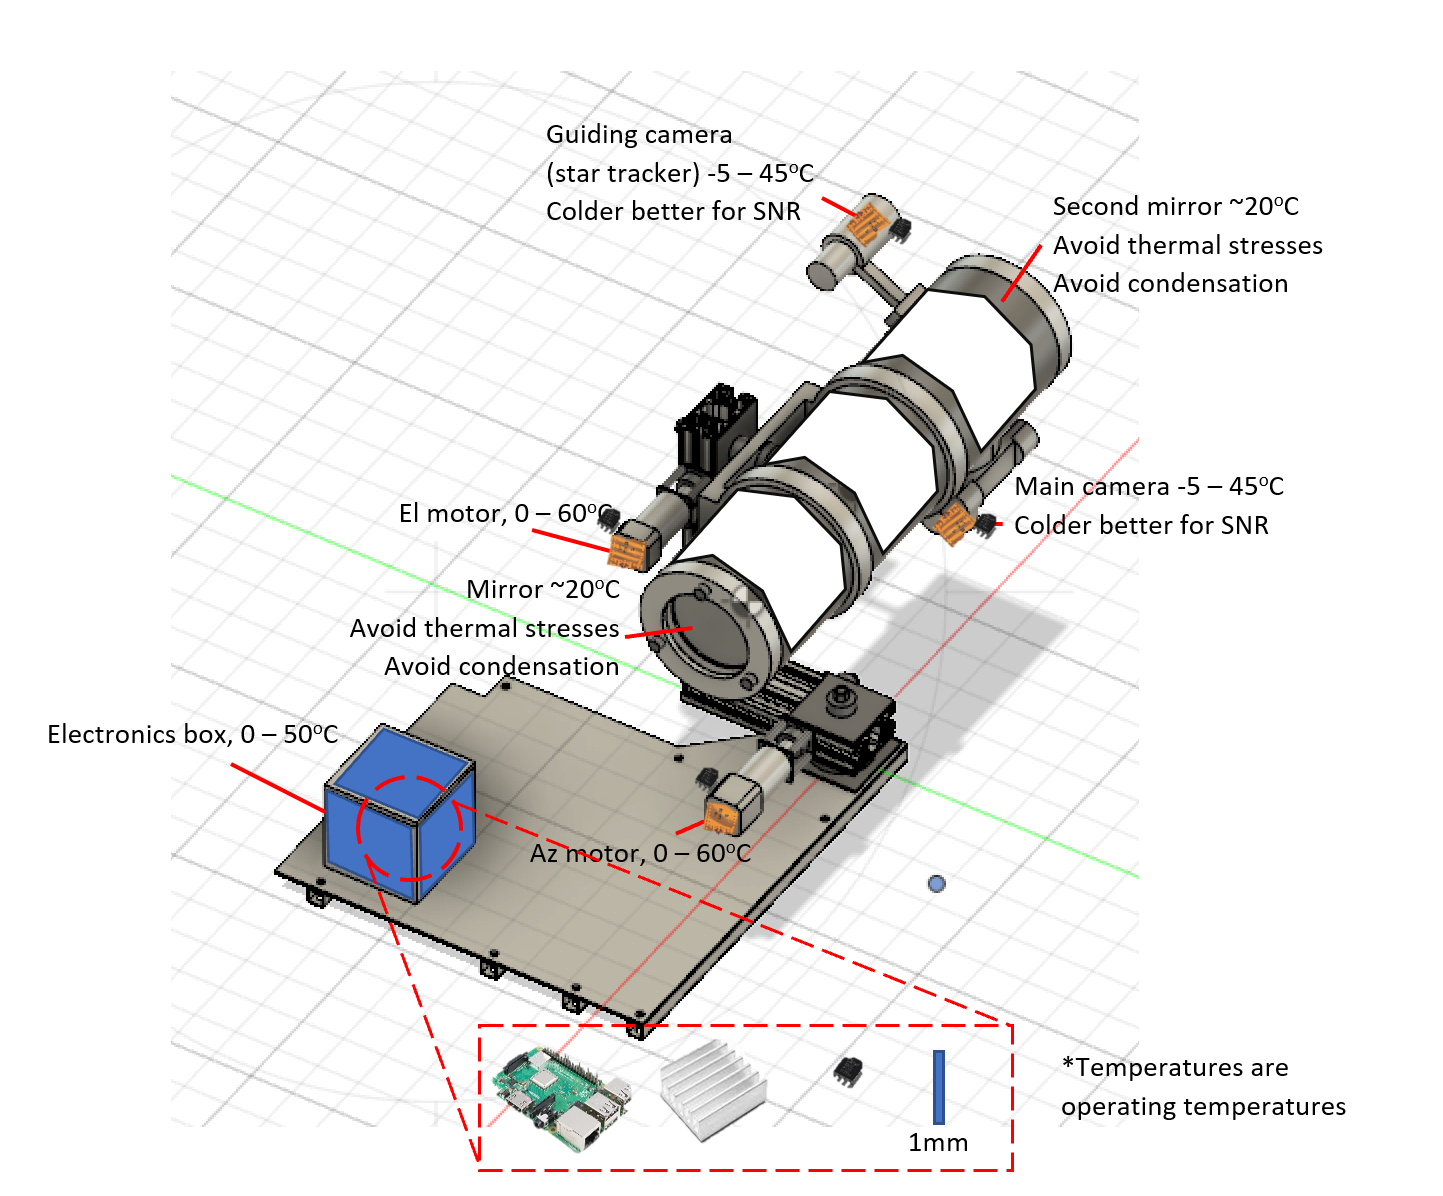
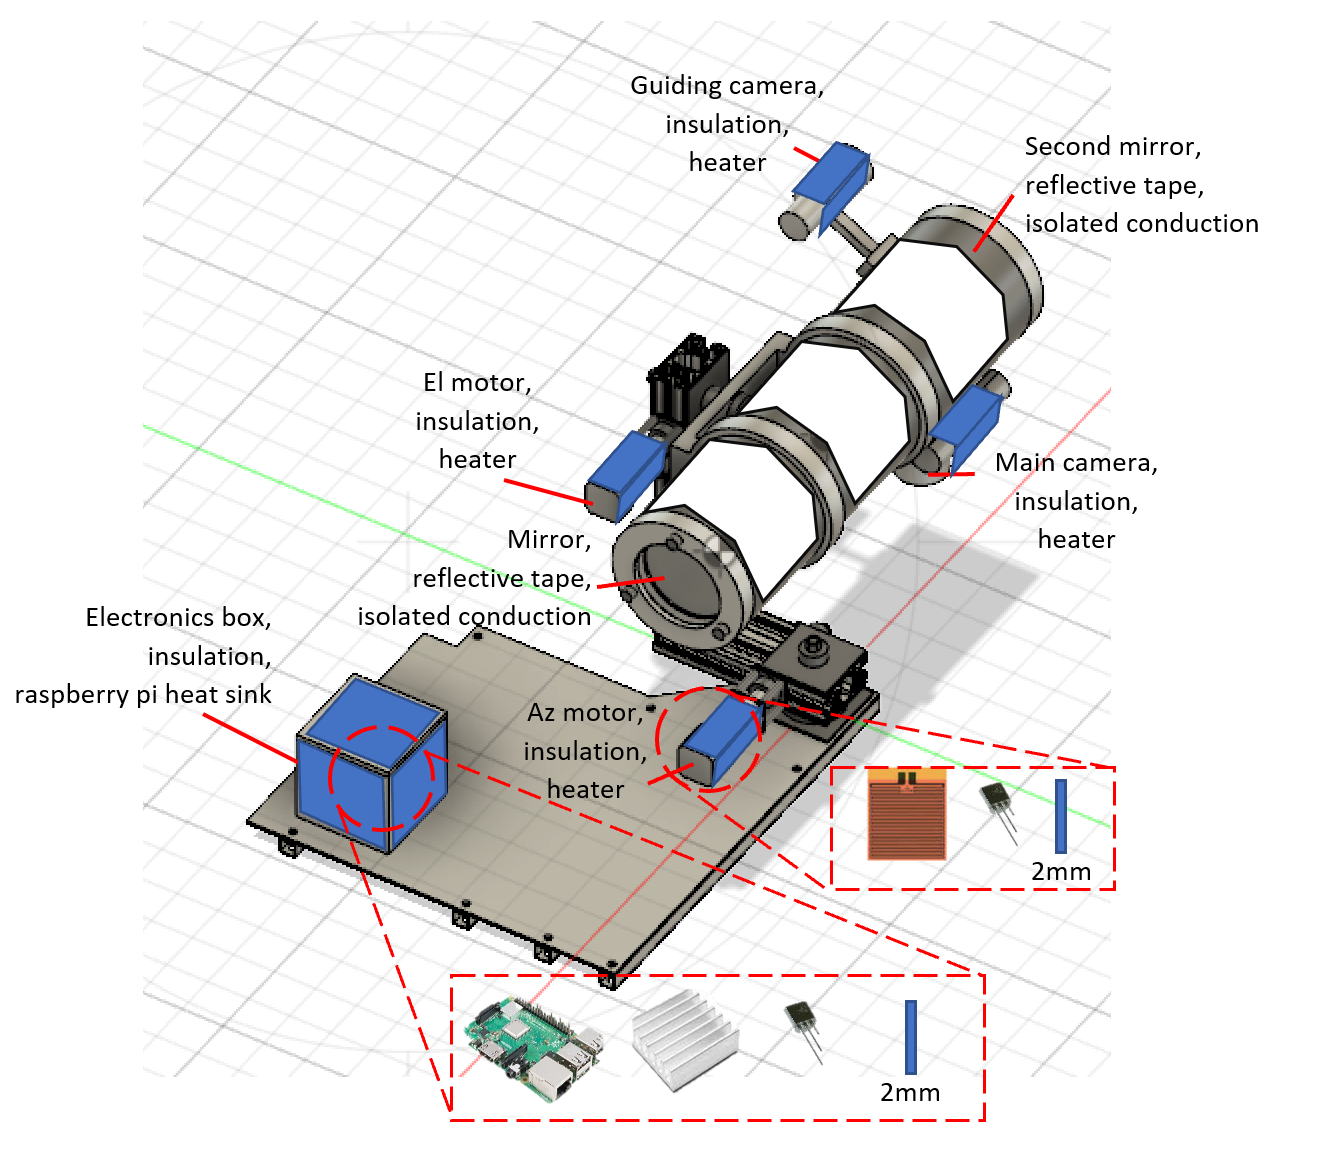
4.6 thermal updates sed2.1
CDR-17, other non action points from cdr feedback

diff --git a/4-experiment-design/4.6-thermal-design.tex b/4-experiment-design/4.6-thermal-design.tex
@@ -77,11 +77,6 @@ Another important effect will be the how thermal stresses and subsequent deflect
 \paragraph{Condensation}
 Condensation may occur if air heated by the camera heating elements is able to condensate on the cold surfaces of the optics. This will deteriorate the quality of the detections and must also be mitigated.  \
 
-\paragraph{Thermal deformation of mechanical parts}
-
-\hl{TODOTODOTODO}
-
-
 	\begin{figure}[h!]
     \centering
     \includegraphics[scale=0.8]{4-experiment-design/img/mechanical/thermalrequirements.PNG}
@@ -166,7 +161,7 @@ It is of note that in historical BEXUS projects utilising the Raspberry Pi in an
 
 
 
-\subsubsection{Thermal control}
+\subsubsection{Thermal analysis}
 
 \paragraph{Insulation}
 
@@ -316,21 +311,40 @@ The thermal environment was also simulated assuming no solar heating for each in
 	\label{fig:1mmthicknoheat}    
     	\end{figure}
 	
-In this case, 1mm insulation yields the best result, with the temperature at 38.2\textsuperscript{o}C with solar heating and -5\textsuperscript{o}C without, well within the required temperatures for the electronics. In any case, this analysis also makes assumptions about perfect conductive interfaces and perfect distributions of material properties, as well as a generic treatment of the thermal loads and geometry. Experimental testing will be required to ascertain more accurately the thermal conditions and to ensure that the thermal control that has been selected will work optimally and reliably. 
+In this case, 1mm insulation yields the best result, with the temperature at 38.2\textsuperscript{o}C with solar heating and -5\textsuperscript{o}C without, well within the required temperatures for the electronics. In any case, this analysis also makes assumptions about perfect conductive interfaces and perfect distributions of material properties, as well as a generic treatment of the thermal loads and geometry. Experimental testing will be required to ascertain more accurately the thermal conditions and to ensure that the thermal control that has been selected will work optimally and reliably. \\
+
+Avoid electrostatic discharging 
+
+\hl{TODOTODO}
+
+
 
 
 \paragraph{Raspberry Pi heat sink}
 
-It is also worth noting that in this analysis, the heat generated is distributed across the entire box, instead of centralised in a smaller volume, which in reality would be the case as the Raspberry Pi generates most of the heat. This would result in much higher temperatures for the Raspberry Pi, possibly exceeded ideal temperatures. Indeed, measurements taken from previous experiments have indicated temepratures at the Raspberry Pi exceeding 80\textsuperscript{o}C. \\
+It is also worth noting that in this analysis, the heat generated is distributed across the entire box, instead of centralised in a smaller volume, which in reality would be the case as the Raspberry Pi generates most of the heat. This would result in much higher temperatures for the Raspberry Pi, possibly exceeded ideal temperatures. Indeed, measurements taken from previous experiments have indicated temperatures at the Raspberry Pi exceeding 80\textsuperscript{o}C. \\
 
 A small heat sink should therefore be used to distribute the heat from the Raspberry Pi more evenly, to better resemble this case. 
 
 \paragraph{Insulation tape for telescope}
-\hl{TODOTODOTODO}
+\hl{TODOTODO}
 
 
-\paragraph{Heating pads}
-For the three motors and three cameras insulation will not be possible. For these components therefore Minco Polyimide Thermofoil heating pads will be used. These heating pads are able to increase the temperature of a target by up to 200\textsuperscript{o}C, more than enough to reach the required temperature range for the motors and cameras given the temperatures in the stratosphere.\\
+\paragraph{Motors and cameras}
+The motors and cameras are distinct from the electronics box in that the predicted power output is much lower, and so therefore the amount of heat able to be insulated is commensurately lower. A simple, first order estimate of the amount of insualtion needed for the motors has been conducted using a rudimentary FEA model.\\
+
+In this model, the motors are modelled as steel cylinders generating 0.91 W of heat, surrounded by extruded polystyrene, with outer surfaces losing heat by way of radiation and convection. The same thermal environment and material properties were used as in the analysis of the electronics box.\\
+
+	\begin{figure}[h!]
+    \centering
+    \includegraphics[scale=0.6]{4-experiment-design/img/mechanical/thermalmotors.PNG}
+	\caption{Results of thermal analysis of motor with insulation and no sun shining.}
+	\label{fig:thermalmotors}
+	\end{figure}
+
+It was found that in order to heat the motors to the required level, based on their heat output, a 40 mm thick layer of insulation would be needed. This seems like a large requirement, and will need to be verified with physical testing. If it is found that the amount of insulating material needs to be reduced, for spatial, mechanical, or other reasons then the heating demands can still be met by adding in heating elements to the insulated environment, which would in effect increase the total "internal heat generation" and minimise the insulation requirement.\\
+
+For these components Minco Polyimide Thermofoil heating pads can be used. These heating pads are able to increase the temperature of a target by up to 200\textsuperscript{o}C, more than enough to reach the required temperature range for the motors and cameras given the temperatures in the stratosphere.\\
 
 Assuming all the heat is transferred directly to the component, the power can be related to the time required to increase the target temperature by a certain amount.
 
@@ -366,41 +380,20 @@ The area of the heater is 3\,inch$^2$. Dividing the power by this area yields a 
 	\label{fig:thermalresistance1}
 	\end{figure}
 
-As this is low that burning of the heater is unlikely to occur, unless the temperature is not properly regulated and the heating pad warms well beyond the desired control temperature. Also, any application method is suitable with respect to this concern. The BM3 shrink band Polyaimide strip will be used as it allows heaters to be attached to cylindrical surfaces, and has a temperature minimum rating of -73\textsuperscript{o}C, lower than alternatives, making it more suitable for use in the stratosphere. \\
-
-\hl{THERMAL TAPE AROUND MOTORS AND CAMERAS TODOTODOTODOTODOTODOTODOTODOTODOTODOTODOTODOTODOTODOTODOTODOTODOTODOTODOTODOTODOTODOTODOTODOTODOTODOTODOTODO}
-
-\paragraph{Thermal expansion and contraction of mechanical parts}
-
-\hl{TODOTODOTODOTODOTODOTODOTODOTODOTODOTODOTODOTODOTODOTODOTODOTODOTODOTODOTODOTODOTODOTODOTODOTODOTODOTODOTODO}
+As this is low that burning of the heater is unlikely to occur, unless the temperature is not properly regulated and the heating pad warms well beyond the desired control temperature. Also, any application method is suitable with respect to this concern. To ensure proper conduction onto the surfaces of the motors and cameras, a thermal interface pad (ILA-TIM-CLUSTER-30X30-2A) will be used ensuring no air gaps that can cause spot heating or electric sparking. \\
 
 
-\paragraph{Thermal control}
+\subsubsection{Thermal control}
+The following methods for regulating the thermal environment have been suggested:\\
 
-To regulate the heater power output to ensure the required operating temperature is maintained, 6 Adafruit 165 temperature sensors will be used to provide feedback to a thermostat. These sensors can measure between -40\textsuperscript{o}C and 125\textsuperscript{o}C, with a resolution of 2\textsuperscript{o}C. Seven sensors will be used, one at the heating pad for each of the three cameras, one at the heating pad for each of the three motors, and one in the electronics box, so that recordings of the Raspberry Pi temperature can be made. 
+\begin{itemize}
+  \item Extruded polystyrene to insulate electronics box self-heat. 
+  \item Heat sink for the Raspberry Pi in the electronics box.
+  \item White reflecting tape, few conductive pathways for the telescope optics.
+  \item Insulation tape, small conductive pathways to isolate telescope optics.
+  \item Extruded polystyrene and Minco heaters to heat motors and cameras.
 
-\hl{TODOTODOTODO}
-
-
-
-
-
-
-
-
-
-
-
-
-
-\subsubsection{Summary of thermal control}
-(insulation \\
-heat sink,\\ 
-insulation tape,\\
-minco heaters,\\
-thermal tape)\\
-
-
+\end{itemize}
 
 \begin{figure}[h!]
 \centering
@@ -408,3 +401,17 @@ thermal tape)\\
 \caption{Summary of the thermal control mechanisms for the system.}
 \label{fig:thermalsolutions}
 \end{figure}
+
+Risks have been identified and addressed including:
+
+\begin{itemize}
+  \item Electrostatic charging from movement of the polystyrene or PCBs.
+  \item Overheating of the Raspberry Pi. 
+  \item Deformation of the mirrors. 
+  \item Air gaps between heaters and motors leading to spot heating. 
+  \item Air gaps between heaters and motors leading to electrical sparking.
+
+\end{itemize}
+
+To measure the temperature of the motors and especially cameras, which should be kept on the cooler end of the operating range, four Adafruit 165 temperature sensors will be used. This output will be fed into a simple proportional control loop to keep the components within the desired temperature range. Precision is not a major requirement for the thermal system. 
+
